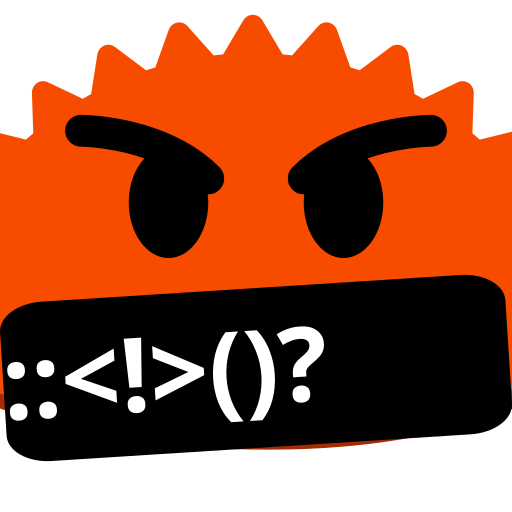
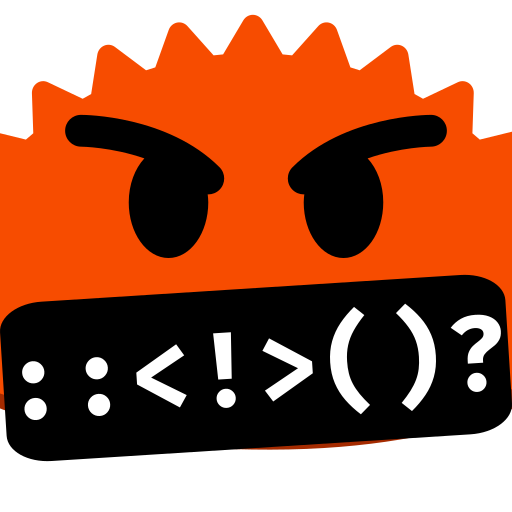
Add ferrisDisapproval

diff --git a/README.md b/README.md
@@ -17,6 +17,7 @@ Discord emoji made by me (mostly for the Rust Programming Language Community Ser
 ![ferrisClueless](./Preview/ferrisClueless.png "ferrisClueless")
 ![ferrisCoin](./Preview/ferrisCoin.png "ferrisCoin")
 ![ferrisCursing](./Preview/ferrisCursing.png "ferrisCursing")
+![ferrisDisapproval](./Preview/ferrisDisapproval.png "ferrisDisapproval")
 ![ferrisForgor](./Preview/ferrisForgor.png "ferrisForgor")
 ![ferrisHot](./Preview/ferrisHot.png "ferrisHot")
 ![ferrisHug](./Preview/ferrisHug.png "ferrisHug")
